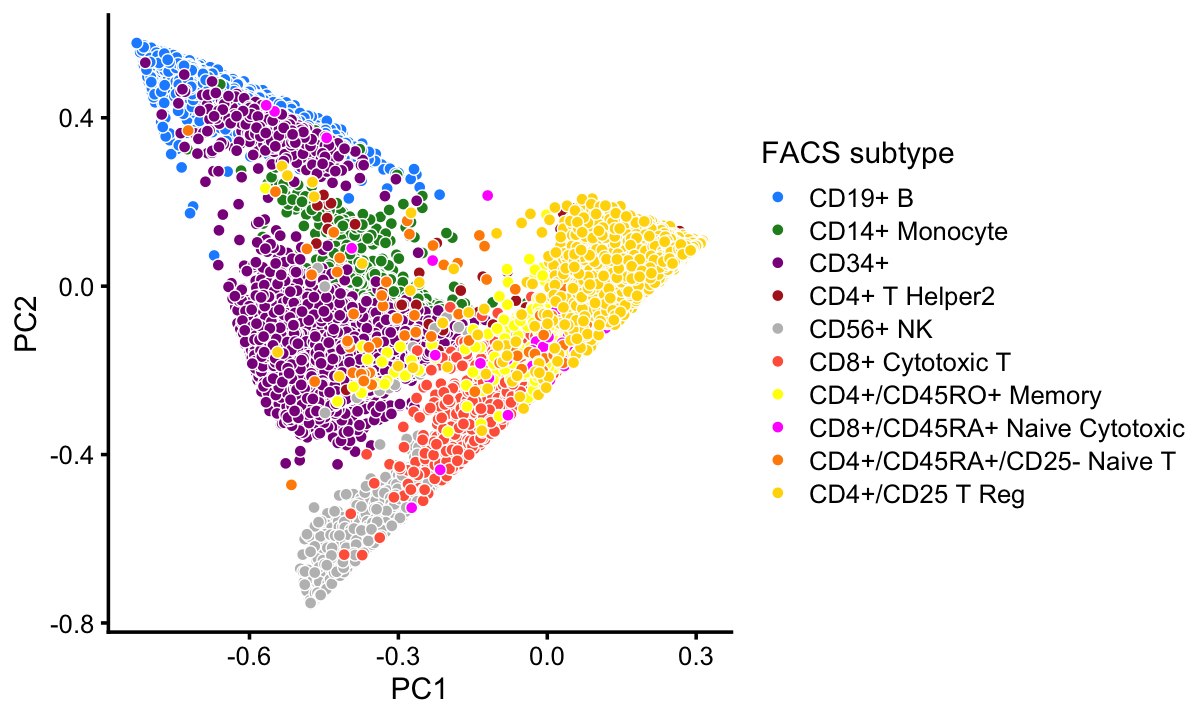
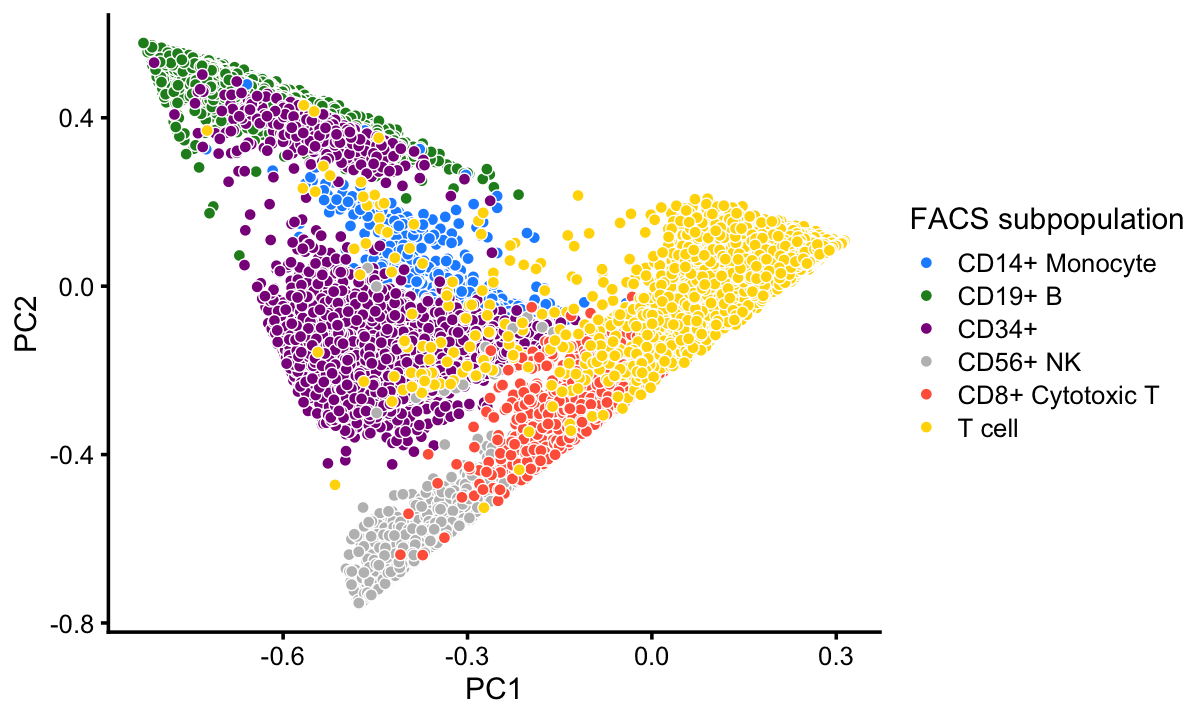
Made some improvements to the PCA plots in clusters_purified_pbmc.

diff --git a/docs/clusters_purified_pbmc.html b/docs/clusters_purified_pbmc.html
@@ -323,7 +323,7 @@ $(document).ready(function () {
 <div class="tab-content">
 <div id="summary" class="tab-pane fade in active">
 <p>
-<strong>Last updated:</strong> 2020-11-26
+<strong>Last updated:</strong> 2020-11-28
 </p>
 <p>
 <strong>Checks:</strong> <span class="glyphicon glyphicon-ok text-success" aria-hidden="true"></span> 7 <span class="glyphicon glyphicon-exclamation-sign text-danger" aria-hidden="true"></span> 0
@@ -414,22 +414,23 @@ This reproducible <a href="http://rmarkdown.rstudio.com">R Markdown</a> analysis
 <div class="panel panel-default">
 <div class="panel-heading">
 <p class="panel-title">
-<a data-toggle="collapse" data-parent="#workflowr-checks" href="#strongRepositoryversionstrongahrefhttpsgithubcomstephenslabsinglecelltopicstree989e7ac79196a3cd999d035e9c34d3c9bb48e2c7targetblank989e7aca"> <span class="glyphicon glyphicon-ok text-success" aria-hidden="true"></span> <strong>Repository version:</strong> <a href="https://github.com/stephenslab/single-cell-topics/tree/989e7ac79196a3cd999d035e9c34d3c9bb48e2c7" target="_blank">989e7ac</a> </a>
+<a data-toggle="collapse" data-parent="#workflowr-checks" href="#strongRepositoryversionstrongahrefhttpsgithubcomstephenslabsinglecelltopicstree80787eb722a900d32ad06a70676255a0b6bfd7abtargetblank80787eba"> <span class="glyphicon glyphicon-ok text-success" aria-hidden="true"></span> <strong>Repository version:</strong> <a href="https://github.com/stephenslab/single-cell-topics/tree/80787eb722a900d32ad06a70676255a0b6bfd7ab" target="_blank">80787eb</a> </a>
 </p>
 </div>
[2 lines of base64/hex data omitted]
 <div class="panel-body">
 <p>
 Great! You are using Git for version control. Tracking code development and connecting the code version to the results is critical for reproducibility.
 </p>
 <p>
-The results in this page were generated with repository version <a href="https://github.com/stephenslab/single-cell-topics/tree/989e7ac79196a3cd999d035e9c34d3c9bb48e2c7" target="_blank">989e7ac</a>. See the <em>Past versions</em> tab to see a history of the changes made to the R Markdown and HTML files.
+The results in this page were generated with repository version <a href="https://github.com/stephenslab/single-cell-topics/tree/80787eb722a900d32ad06a70676255a0b6bfd7ab" target="_blank">80787eb</a>. See the <em>Past versions</em> tab to see a history of the changes made to the R Markdown and HTML files.
 </p>
 <p>
 Note that you need to be careful to ensure that all relevant files for the analysis have been committed to Git prior to generating the results (you can use <code>wflow_publish</code> or <code>wflow_git_commit</code>). workflowr only checks the R Markdown file, but you know if there are other scripts or data files that it depends on. Below is the status of the Git repository when the results were generated:
 </p>
 <pre><code>
 Ignored files:
+    Ignored:    analysis/figure/
     Ignored:    data/droplet.RData
     Ignored:    data/pbmc_68k.RData
     Ignored:    data/pbmc_purified.RData
@@ -439,6 +440,7 @@ Ignored files:
     Ignored:    output/droplet/rds/
     Ignored:    output/pbmc-68k/fits-pbmc-68k.RData
     Ignored:    output/pbmc-68k/rds/
+    Ignored:    output/pbmc-purified/diff-count-pbmc-purified.RData
     Ignored:    output/pbmc-purified/fits-pbmc-purified.RData
     Ignored:    output/pbmc-purified/rds/
     Ignored:    output/pulseseq/diff-count-pulseseq.RData
@@ -446,11 +448,9 @@ Ignored files:
     Ignored:    output/pulseseq/rds/
 
 Untracked files:
-    Untracked:  analysis/clustering-pbmc-purified.rds
-    Untracked:  analysis/diff-count-pbmc-purified.RData
-
-Unstaged changes:
-    Modified:   analysis/plots_for_paper_pbmc_purified.R
+    Untracked:  analysis/pca_clusters_pbmc_purified.png
+    Untracked:  analysis/pca_facs_pbmc_purified.png
+    Untracked:  analysis/pca_hexbin_pbmc_purified.eps
 
 </code></pre>
 <p>
@@ -489,6 +489,74 @@ Message
 </tr>
 </thead>
 <tbody>
+<tr>
+<td>
+Rmd
+</td>
+<td>
+<a href="https://github.com/stephenslab/single-cell-topics/blob/80787eb722a900d32ad06a70676255a0b6bfd7ab/analysis/clusters_purified_pbmc.Rmd" target="_blank">80787eb</a>
+</td>
+<td>
+Peter Carbonetto
+</td>
+<td>
+2020-11-28
+</td>
+<td>
+workflowr::wflow_publish(“clusters_purified_pbmc.Rmd”)
+</td>
+</tr>
+<tr>
+<td>
+Rmd
+</td>
+<td>
+<a href="https://github.com/stephenslab/single-cell-topics/blob/605ee92b6fa4d035c38d750e3d2b37c7ceaa13e6/analysis/clusters_purified_pbmc.Rmd" target="_blank">605ee92</a>
+</td>
+<td>
+Peter Carbonetto
+</td>
+<td>
+2020-11-28
+</td>
+<td>
+Added steps to create PCA plots for paper in clusters_pbmc_purified analysis.
+</td>
+</tr>
+<tr>
+<td>
+Rmd
+</td>
+<td>
+<a href="https://github.com/stephenslab/single-cell-topics/blob/39015bd3f8cf9972f0acfbb4f96d14e7a28ce2c3/analysis/clusters_purified_pbmc.Rmd" target="_blank">39015bd</a>
+</td>
+<td>
+Peter Carbonetto
+</td>
+<td>
+2020-11-28
+</td>
+<td>
+Cluster A in PBMC data = dendritic cells.
+</td>
+</tr>
+<tr>
+<td>
+html
+</td>
+<td>
+<a href="https://rawcdn.githack.com/stephenslab/single-cell-topics/48438b3434a734d5d36c57a68a6bd94d6529e338/docs/clusters_purified_pbmc.html" target="_blank">48438b3</a>
+</td>
+<td>
+Peter Carbonetto
+</td>
+<td>
+2020-11-26
+</td>
+<td>
+Added a cluster to the purified PBMC clustering.
+</td>
+</tr>
 <tr>
 <td>
 Rmd
@@ -780,7 +848,7 @@ pc5 &lt;- pca[,5]
 x[pc2 &gt; 0.25] &lt;- &quot;B&quot;
 x[pc3 &lt; -0.2 &amp; pc4 &lt; 0.2] &lt;- &quot;CD34+&quot;
 x[(pc4 + 0.1)^2 + (pc5 - 0.8)^2 &lt; 0.07] &lt;- &quot;CD14+&quot;</code></pre>
-<p>Next, we define an NK cells cluster from the top 2 PCs of the topic proportions in the U cluster.</p>
+<p>Next, we define clusters for NK cells and dendritic cells from the top 2 PCs of the topic proportions in the U cluster.</p>
 <pre class="r"><code>rows &lt;- which(x == &quot;U&quot;)
 n    &lt;- length(rows)
 fit2 &lt;- select(poisson2multinom(fit),loadings = rows)
@@ -791,9 +859,9 @@ pc2  &lt;- pca[,2]
 pc3  &lt;- pca[,3]
 pc4  &lt;- pca[,4]
 y[pc1 &lt; -0.3 &amp; 1.1*pc1 &lt; -pc2 - 0.57] &lt;- &quot;NK&quot;
-y[pc3 &gt; 0.4 &amp; pc4 &lt; 0.2] &lt;- &quot;A&quot;
+y[pc3 &gt; 0.4 &amp; pc4 &lt; 0.2] &lt;- &quot;dendritic&quot;
 x[rows] &lt;- y</code></pre>
-<p>Among the remaining cells, we define a much less distinct cluster of CD8+ cells. The rest are labeled as T-cells.</p>
+<p>Among the remaining cells, we define a cluster for CD8+ cells, noting that this is much less distinct than the other cells. The rest are labeled as T-cells.</p>
 <pre class="r"><code>rows &lt;- which(x == &quot;U&quot;)
 n    &lt;- length(rows)
 fit2 &lt;- select(poisson2multinom(fit),loadings = rows)
@@ -803,12 +871,12 @@ pc1  &lt;- pca[,1]
 pc2  &lt;- pca[,2]
 y[pc1 &lt; 0.25 &amp; pc2 &lt; -0.15] &lt;- &quot;CD8+&quot;
 x[rows] &lt;- y</code></pre>
-<p>In summary, we have subdivided the cells into 7 subsets. The substructure becomes more clear when we plot T cells separately from the other cells.</p>
-<pre class="r"><code>cluster_colors &lt;- c(&quot;skyblue&quot;,     # A
-                    &quot;dodgerblue&quot;,  # B-cells
+<p>In summary, we have subdivided the cells into 7 subsets. This plot shows the clustering of the cells projected onto the top two PCs:</p>
+<pre class="r"><code>cluster_colors &lt;- c(&quot;dodgerblue&quot;,  # B-cells
                     &quot;forestgreen&quot;, # CD14+
                     &quot;darkmagenta&quot;, # CD34+ 
                     &quot;red&quot;,         # CD8+
+                    &quot;skyblue&quot;,     # dendritic
                     &quot;gray&quot;,        # NK
                     &quot;darkorange&quot;)  # T-cells
 samples$cluster &lt;- factor(x)
@@ -842,6 +910,17 @@ Date
 <tbody>
 <tr>
 <td>
+<a href="https://github.com/stephenslab/single-cell-topics/blob/48438b3434a734d5d36c57a68a6bd94d6529e338/docs/figure/clusters_purified_pbmc.Rmd/clustering-4-1.png" target="_blank">48438b3</a>
+</td>
+<td>
+Peter Carbonetto
+</td>
+<td>
+2020-11-26
+</td>
+</tr>
+<tr>
+<td>
 <a href="https://github.com/stephenslab/single-cell-topics/blob/e7411a07b556af4f5dd2eff03bd7ca13d04e0d80/docs/figure/clusters_purified_pbmc.Rmd/clustering-4-1.png" target="_blank">e7411a0</a>
 </td>
 <td>
@@ -855,34 +934,35 @@ Peter Carbonetto
 </table>
 </div>
 </div>
-<p>This clustering corresponds closely to the Zheng <em>et al</em> (2017) FACS cell populations, although there are some differences—for example, the CD14+ cluster contains a large number of cells identified as CD34+ by FACS.</p>
+<p>This clustering corresponds well to the Zheng <em>et al</em> (2017) FACS cell populations, although there are some differences.</p>
 <pre class="r"><code>with(samples,table(celltype,cluster))
 #                               cluster
-# celltype                           A     B CD14+ CD34+  CD8+    NK     T
-#   CD19+ B                          7 10073     0     0     3     0     2
-#   CD14+ Monocyte                 156     8  2420     0     3     0    25
-#   CD34+                          121   352   536  8182    20     4    17
-#   CD4+ T Helper2                   9     0     0     8    45     1 11150
-#   CD56+ NK                         4     0     0    17    82  8279     3
-#   CD8+ Cytotoxic T                 0     0     0     0  3146    93  6970
-#   CD4+/CD45RO+ Memory              1     0     0    20   355     0  9848
-#   CD8+/CD45RA+ Naive Cytotoxic     2     3     0     0    52     2 11894
-#   CD4+/CD45RA+/CD25- Naive T       5     1     0     8    27     1 10437
-#   CD4+/CD25 T Reg                  3     2     0     2    24     0 10232</code></pre>
-<p>This close correspondence is also apparent when we layer the FACS cell population labels on the PCA plots:</p>
+# celltype                           B CD14+ CD34+  CD8+ dendritic    NK     T
+#   CD19+ B                      10073     0     0     3         7     0     2
+#   CD14+ Monocyte                   8  2420     0     3       156     0    25
+#   CD34+                          352   536  8182    20       121     4    17
+#   CD4+ T Helper2                   0     0     8    45         9     1 11150
+#   CD56+ NK                         0     0    17    82         4  8279     3
+#   CD8+ Cytotoxic T                 0     0     0  3146         0    93  6970
+#   CD4+/CD45RO+ Memory              0     0    20   355         1     0  9848
+#   CD8+/CD45RA+ Naive Cytotoxic     3     0     0    52         2     2 11894
+#   CD4+/CD45RA+/CD25- Naive T       1     0     8    27         5     1 10437
+#   CD4+/CD25 T Reg                  2     0     2    24         3     0 10232</code></pre>
+<p>This good correspondence is also apparent when we layer the FACS cell population labels on the PCA plots:</p>
 <pre class="r"><code>facs_colors &lt;- c(&quot;dodgerblue&quot;,  # B-cells
                  &quot;forestgreen&quot;, # CD14+
                  &quot;darkmagenta&quot;, # CD34+
-                 &quot;firebrick&quot;,   # T helper cells
                  &quot;gray&quot;,        # NK cells
                  &quot;tomato&quot;,      # cytotoxic T-cells
-                 &quot;yellow&quot;,      # memory T-cells
-                 &quot;magenta&quot;,     # naive cytotoxic 
-                 &quot;darkorange&quot;,  # naive T-cells
-                 &quot;gold&quot;)        # regulatory T-cells
-p3 &lt;- pca_plot(poisson2multinom(fit),fill = samples$celltype) +
+                 &quot;gold&quot;)        # T-cells
+x &lt;- as.character(samples$celltype)
+x[x == &quot;CD4+ T Helper2&quot; | x == &quot;CD4+/CD45RO+ Memory&quot; |
+  x == &quot;CD8+/CD45RA+ Naive Cytotoxic&quot; | x == &quot;CD4+/CD45RA+/CD25- Naive T&quot; | 
+  x == &quot;CD4+/CD45RA+/CD25- Naive T&quot; | x == &quot;CD4+/CD25 T Reg&quot;] &lt;- &quot;T cell&quot;
+x &lt;- factor(x)
+p3 &lt;- pca_plot(poisson2multinom(fit),fill = x) +
   scale_fill_manual(values = facs_colors) +
-  labs(fill = &quot;FACS subtype&quot;)
+  labs(fill = &quot;FACS subpopulation&quot;)
 print(p3)</code></pre>
 <p><img src="figure/clusters_purified_pbmc.Rmd/clustering-6-1.png" width="600" style="display: block; margin: auto;" /></p>
 <p>
@@ -909,58 +989,18 @@ Date
 <tbody>
 <tr>
 <td>
-<a href="https://github.com/stephenslab/single-cell-topics/blob/e7411a07b556af4f5dd2eff03bd7ca13d04e0d80/docs/figure/clusters_purified_pbmc.Rmd/clustering-6-1.png" target="_blank">e7411a0</a>
+<a href="https://github.com/stephenslab/single-cell-topics/blob/48438b3434a734d5d36c57a68a6bd94d6529e338/docs/figure/clusters_purified_pbmc.Rmd/clustering-6-1.png" target="_blank">48438b3</a>
 </td>
 <td>
 Peter Carbonetto
 </td>
 <td>
-2020-11-23
+2020-11-26
 </td>
 </tr>
-</tbody>
-</table>
-</div>
-</div>
-<p>By computing inter-cluster and inter-topic <em>total variation distances</em> in relative expression levels, we see that the clusters identified above show greater differentiation in gene expression, and the topics show more differentiation than the clusters.</p>
-<pre class="r"><code>fit_zheng &lt;- init_poisson_nmf_from_clustering(counts,samples$celltype)
-d_zheng   &lt;- totalvardist(poisson2multinom(fit_zheng)$F)
-d_topics  &lt;- totalvardist(poisson2multinom(fit)$F)</code></pre>
-<p>Here is a plot summarizing these differences:</p>
-<pre class="r"><code>pdat &lt;-
-  rbind(data.frame(method = &quot;zheng.et.al&quot;,d = d_zheng[upper.tri(d_zheng)]),
-        data.frame(method = &quot;topics&quot;,     d = d_topics[upper.tri(d_topics)]))
-p4 &lt;- ggplot(pdat,aes(x = method,y = d)) +
-  geom_boxplot(width = 0.25) +
-  labs(x = &quot;&quot;,y = &quot;total variation dist&quot;) +
-  theme_cowplot(font_size = 9)
-print(p4)</code></pre>
-<p><img src="figure/clusters_purified_pbmc.Rmd/clustering-8-1.png" width="240" style="display: block; margin: auto;" /></p>
-<p>
-<button type="button" class="btn btn-default btn-xs btn-workflowr btn-workflowr-fig" data-toggle="collapse" data-target="#fig-clustering-8-1">
-Past versions of clustering-8-1.png
-</button>
-</p>
-<div id="fig-clustering-8-1" class="collapse">
-<div class="table-responsive">
-<table class="table table-condensed table-hover">
-<thead>
-<tr>
-<th>
-Version
-</th>
-<th>
-Author
-</th>
-<th>
-Date
-</th>
-</tr>
-</thead>
-<tbody>
 <tr>
 <td>
-<a href="https://github.com/stephenslab/single-cell-topics/blob/e7411a07b556af4f5dd2eff03bd7ca13d04e0d80/docs/figure/clusters_purified_pbmc.Rmd/clustering-8-1.png" target="_blank">e7411a0</a>
+<a href="https://github.com/stephenslab/single-cell-topics/blob/e7411a07b556af4f5dd2eff03bd7ca13d04e0d80/docs/figure/clusters_purified_pbmc.Rmd/clustering-6-1.png" target="_blank">e7411a0</a>
 </td>
 <td>
 Peter Carbonetto
@@ -984,7 +1024,7 @@ topics &lt;- c(5,3,2,4,1,6)
 rows &lt;- sort(c(sample(which(samples$cluster == &quot;B&quot;),1000),
                sample(which(samples$cluster == &quot;CD14+&quot;),300),
                sample(which(samples$cluster == &quot;CD34+&quot;),500),
-               which(samples$cluster == &quot;A&quot;),
+               which(samples$cluster == &quot;dendritic&quot;),
                sample(which(samples$cluster == &quot;CD8+&quot;),400),
                sample(which(samples$cluster == &quot;NK&quot;),500),
                sample(which(samples$cluster == &quot;T&quot;),1000)))
@@ -1017,6 +1057,17 @@ Date
 </tr>
 </thead>
 <tbody>
+<tr>
+<td>
+<a href="https://github.com/stephenslab/single-cell-topics/blob/48438b3434a734d5d36c57a68a6bd94d6529e338/docs/figure/clusters_purified_pbmc.Rmd/structure-plot-1.png" target="_blank">48438b3</a>
+</td>
+<td>
+Peter Carbonetto
+</td>
+<td>
+2020-11-26
+</td>
+</tr>
 <tr>
 <td>
 <a href="https://github.com/stephenslab/single-cell-topics/blob/1845721adbb0676fa7b5b20480b19b4a5bf99eab/docs/figure/clusters_purified_pbmc.Rmd/structure-plot-1.png" target="_blank">1845721</a>
